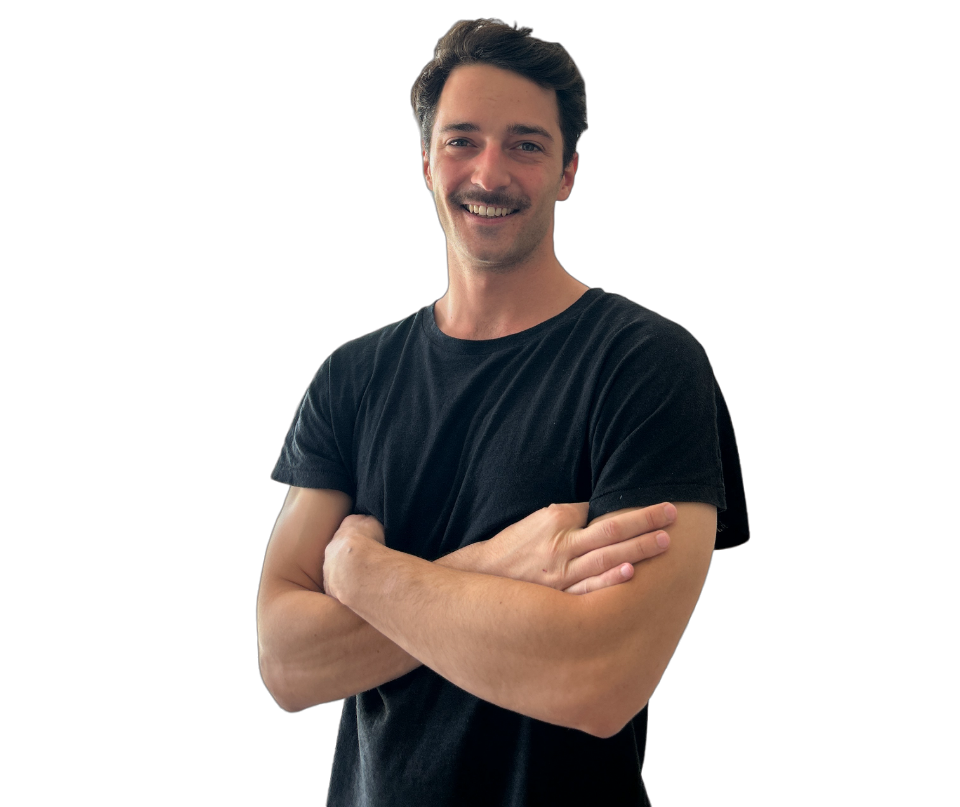
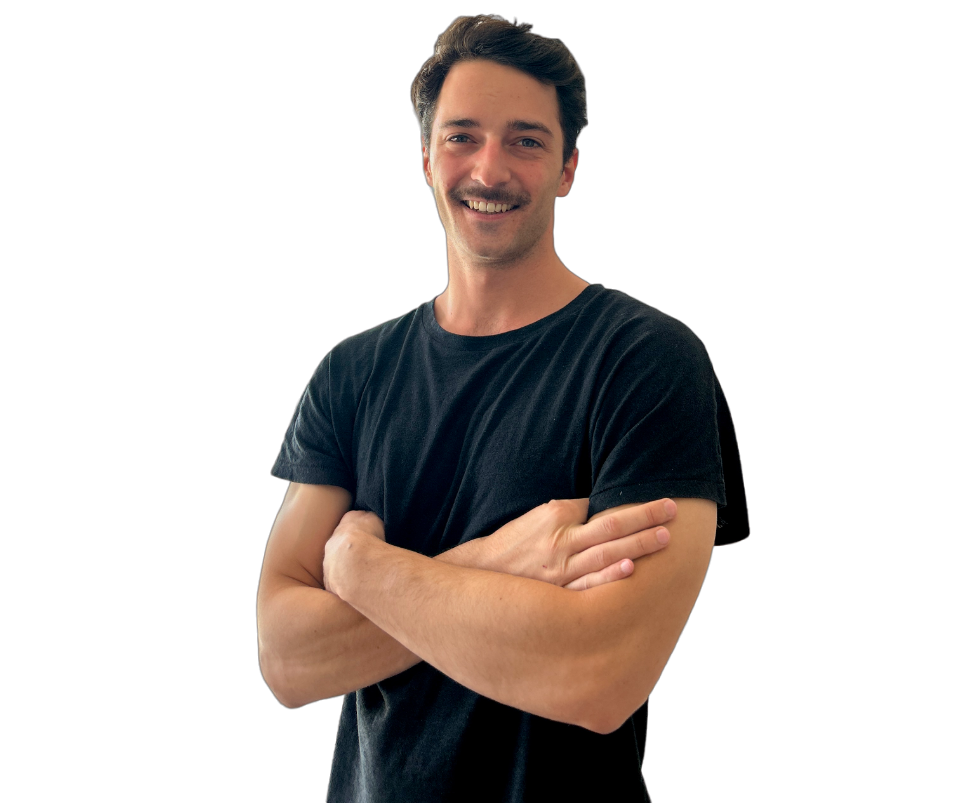
ready

diff --git a/src/App.css b/src/App.css
@@ -77,15 +77,21 @@ ul {
 }
 
 .logo-inicio {
-  width: 30%;
+  width: 45%;
   height: 100%;
   display: flex;
   justify-content: center;
   align-items: center;
+  background: linear-gradient(
+    135deg,
+    rgb(223, 219, 219) 0%,
+    rgb(203, 212, 218) 100%
+  );
+  border-radius: 10px;
 }
 
 img {
-  width: 180px;
+  width: 110%;
 }
 
 .texto-inicio {

diff --git a/src/Components/Inicio.jsx b/src/Components/Inicio.jsx
@@ -6,7 +6,7 @@ const Inicio = () => {
   return (
     <section className="contenedor-inicio" id="inicio">
       <div className="logo-inicio">
-        <img src="/ss.png" alt="foto MPC" />
+        <img src="/cs.png" alt="foto MPC" />
       </div>
       <div className="texto-inicio">
         <h1>{t("inicio.h1")}</h1>
